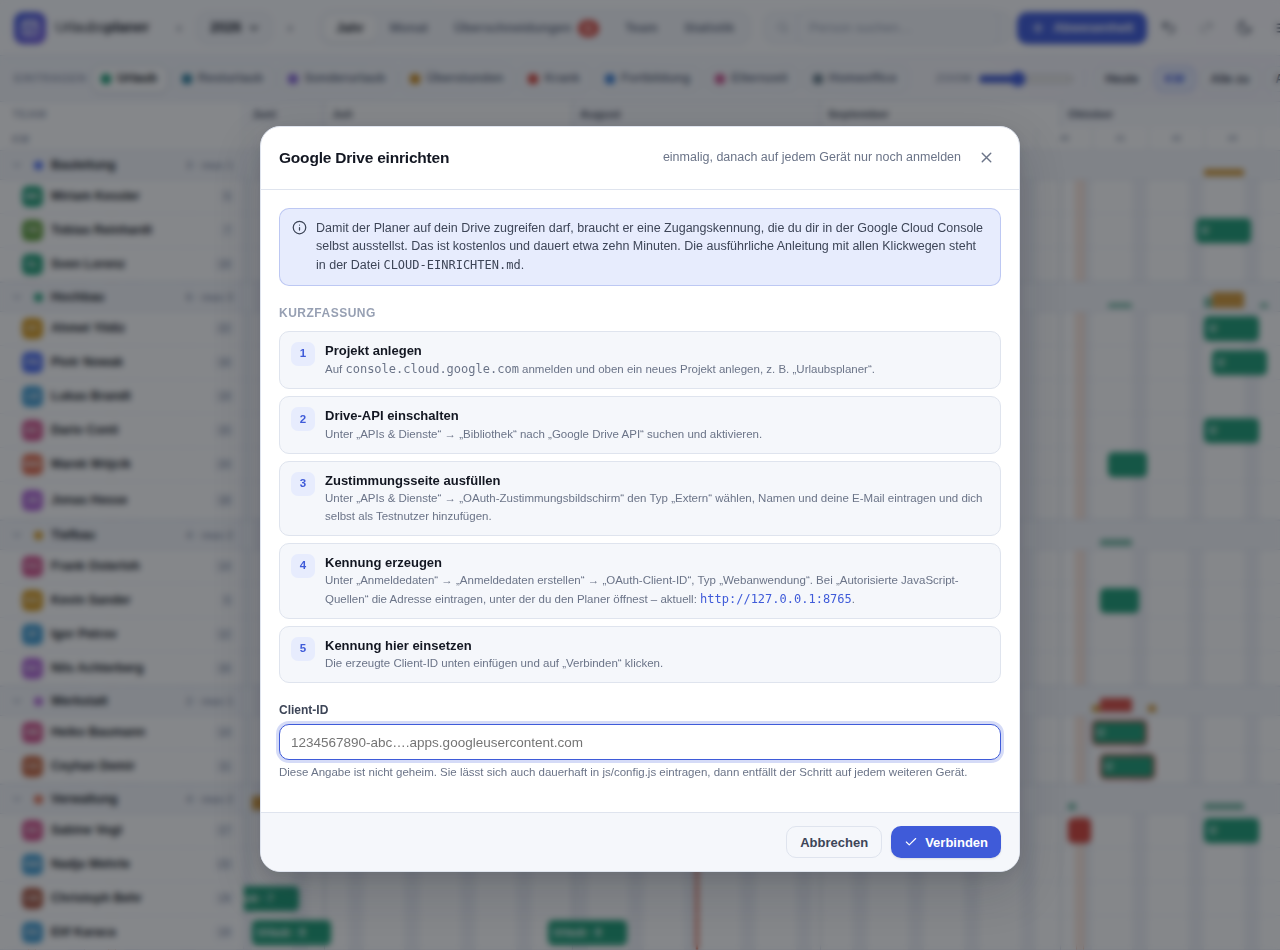
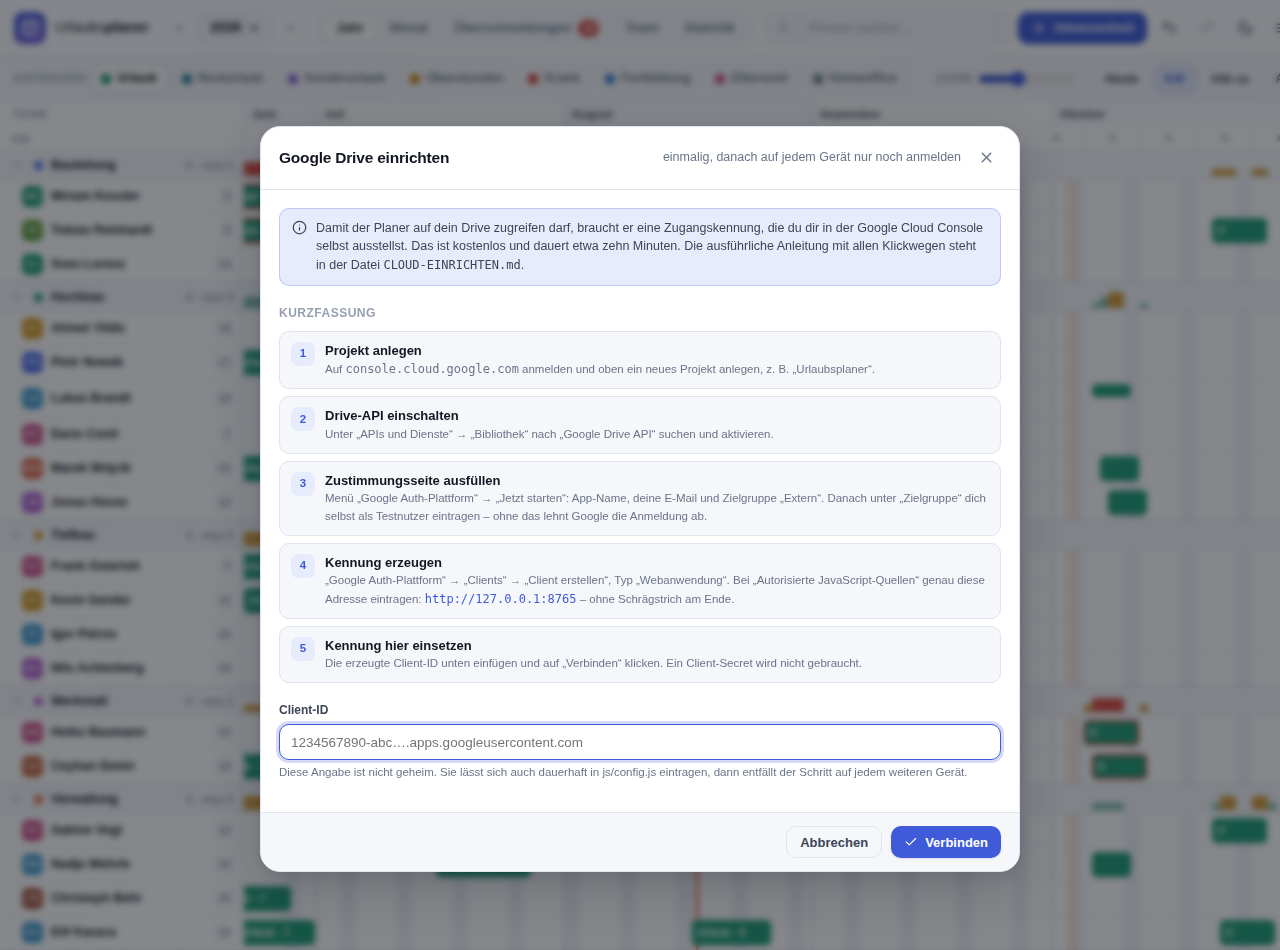
docs(urlaubsplaner): Google-Anleitung an die neue Konsole angepasst
Google hat die Cloud Console umgebaut: Der OAuth-Zustimmungsbildschirm liegt
jetzt unter „Google Auth-Plattform“ mit den Abschnitten Branding, Zielgruppe,
Datenzugriff und Clients. Die bisherige Anleitung nannte Menüpunkte, die es so
nicht mehr gibt.

- Klickweg in CLOUD-EINRICHTEN.md und im Einrichtungsdialog aktualisiert,
  englische Bezeichnungen in Klammern für Konsolen in anderer Sprache
- Testnutzer stehen jetzt unter „Zielgruppe“; der Hinweis, dass ohne diesen
  Schritt die Anmeldung abgelehnt wird, steht jetzt direkt dabei
- Veröffentlichen ebenfalls unter „Zielgruppe“ statt im alten Menü
- ergänzt: der alte Weg über „Anmeldedaten“ existiert weiterhin, und ein
  Client-Secret wird nicht gebraucht

Claude-Session: https://claude.ai/code/session_01ARkv8irn3BEgwyWn3P67vM

diff --git a/urlaubsplaner/js/app.js b/urlaubsplaner/js/app.js
@@ -203,17 +203,19 @@ UP.app = (function () {
             el('span', {}, 'Auf ', el('span.mono', {}, 'console.cloud.google.com'),
               ' anmelden und oben ein neues Projekt anlegen, z. B. „Urlaubsplaner“.')),
           step('2', 'Drive-API einschalten',
-            'Unter „APIs & Dienste“ → „Bibliothek“ nach „Google Drive API“ suchen und aktivieren.'),
+            'Unter „APIs und Dienste“ → „Bibliothek“ nach „Google Drive API“ suchen und aktivieren.'),
           step('3', 'Zustimmungsseite ausfüllen',
-            'Unter „APIs & Dienste“ → „OAuth-Zustimmungsbildschirm“ den Typ „Extern“ wählen, ' +
-            'Namen und deine E-Mail eintragen und dich selbst als Testnutzer hinzufügen.'),
+            'Menü „Google Auth-Plattform“ → „Jetzt starten“: App-Name, deine E-Mail und ' +
+            'Zielgruppe „Extern“. Danach unter „Zielgruppe“ dich selbst als Testnutzer eintragen – ' +
+            'ohne das lehnt Google die Anmeldung ab.'),
           step('4', 'Kennung erzeugen',
-            el('span', {}, 'Unter „Anmeldedaten“ → „Anmeldedaten erstellen“ → „OAuth-Client-ID“, ' +
-              'Typ „Webanwendung“. Bei „Autorisierte JavaScript-Quellen“ die Adresse eintragen, ' +
-              'unter der du den Planer öffnest – aktuell: ',
-              el('span.mono', { style: { color: 'var(--primary)' } }, location.origin), '.')),
+            el('span', {}, '„Google Auth-Plattform“ → „Clients“ → „Client erstellen“, Typ ' +
+              '„Webanwendung“. Bei „Autorisierte JavaScript-Quellen“ genau diese Adresse eintragen: ',
+              el('span.mono', { style: { color: 'var(--primary)' } }, location.origin),
+              ' – ohne Schrägstrich am Ende.')),
           step('5', 'Kennung hier einsetzen',
-            'Die erzeugte Client-ID unten einfügen und auf „Verbinden“ klicken.')),
+            'Die erzeugte Client-ID unten einfügen und auf „Verbinden“ klicken. Ein Client-Secret ' +
+            'wird nicht gebraucht.')),
 
         el('div.field', { style: { marginTop: '18px' } },
           el('label', {}, 'Client-ID'), idInput,

diff --git a/urlaubsplaner/CLOUD-EINRICHTEN.md b/urlaubsplaner/CLOUD-EINRICHTEN.md
@@ -21,46 +21,61 @@ Google verlangt, dass sich jede Anwendung ausweist, die auf ein Drive zugreift.
 Diesen Ausweis stellst du dir selbst aus. Er ist kostenlos und **nicht geheim** –
 er darf offen im Quelltext stehen.
 
+> Google hat die Konsole 2025 umgebaut: Was früher unter „APIs und Dienste →
+> OAuth-Zustimmungsbildschirm“ lag, heißt jetzt **Google Auth-Plattform**. Viele
+> Anleitungen im Netz beschreiben noch die alte Oberfläche. Die Schritte unten
+> gelten für die neue. Da die Konsole zweisprachig genutzt wird, stehen die
+> englischen Bezeichnungen in Klammern.
+
 ### 1. Projekt anlegen
 
 1. [console.cloud.google.com](https://console.cloud.google.com) öffnen und mit
    dem Google-Konto anmelden, in dessen Drive der Plan liegen soll.
-2. Oben in der Kopfzeile auf die Projektauswahl klicken → **Neues Projekt**.
+2. Oben in der Kopfzeile auf die Projektauswahl klicken → **Neues Projekt**
+   (*New Project*).
 3. Name: `Urlaubsplaner`. **Erstellen**.
-4. Warten, bis das Projekt angelegt ist, und oben darauf umschalten.
+4. Warten, bis das Projekt angelegt ist, und oben darauf umschalten. Alles
+   Folgende passiert in diesem Projekt – bei Fehlern lohnt der Blick nach oben,
+   ob noch das richtige ausgewählt ist.
 
 ### 2. Drive-API einschalten
 
-1. Im Menü links: **APIs und Dienste** → **Bibliothek**.
+1. Im Menü links: **APIs und Dienste** → **Bibliothek** (*Library*).
 2. Nach `Google Drive API` suchen und darauf klicken.
-3. **Aktivieren**.
+3. **Aktivieren** (*Enable*).
 
 ### 3. Zustimmungsbildschirm einrichten
 
 Das ist die Seite, die Google später anzeigt, wenn du dem Planer den Zugriff
 erlaubst.
 
-1. **APIs und Dienste** → **OAuth-Zustimmungsbildschirm**.
-2. Nutzertyp **Extern** → **Erstellen**.
-3. Ausfüllen:
-   - App-Name: `Urlaubsplaner`
-   - Nutzersupport-E-Mail: deine Adresse
-   - Kontakt-E-Mail des Entwicklers: dieselbe Adresse
-4. **Speichern und fortfahren**.
-5. Bei **Bereiche** nichts eintragen – **Speichern und fortfahren**.
-6. Bei **Testnutzer** auf **Add users** und deine eigene Google-Adresse
-   eintragen. Ebenso die Adressen aller Kolleginnen und Kollegen, die den Planer
-   nutzen sollen. **Speichern und fortfahren**.
+1. Im Menü links **Google Auth-Plattform** (*Google Auth Platform*) öffnen.
+   Falls du sie nicht findest: oben in der Suche `Google Auth` eingeben.
+2. Beim ersten Mal erscheint **Jetzt starten** (*Get started*) – ein Assistent
+   mit vier Abschnitten auf einer Seite:
+   - **App-Informationen**: App-Name `Urlaubsplaner`, Nutzersupport-E-Mail deine
+     Adresse
+   - **Zielgruppe** (*Audience*): **Extern** (*External*)
+   - **Kontaktdaten**: deine E-Mail-Adresse
+   - Nutzungsbedingungen bestätigen → **Erstellen**
+3. Danach links auf **Zielgruppe** (*Audience*). Unten bei **Testnutzer**
+   (*Test users*) auf **Nutzer hinzufügen** und deine eigene Google-Adresse
+   eintragen – ebenso die Adressen aller Kolleginnen und Kollegen, die den
+   Planer nutzen sollen. **Speichern**.
+
+   Ohne diesen Schritt lehnt Google die Anmeldung mit „Zugriff verweigert“ ab.
 
 ### 4. Kennung erzeugen
 
-1. **APIs und Dienste** → **Anmeldedaten**.
-2. **Anmeldedaten erstellen** → **OAuth-Client-ID**.
-3. Anwendungstyp: **Webanwendung**.
-4. Name: `Urlaubsplaner Browser`.
-5. Bei **Autorisierte JavaScript-Quellen** auf **URI hinzufügen** und die
-   Adresse eintragen, unter der du den Planer öffnest. **Ohne Schrägstrich am
-   Ende, ohne Pfad.** Beispiele:
+1. In der **Google Auth-Plattform** links auf **Clients**, dann
+   **Client erstellen** (*Create client*).
+   *Der alte Weg über* **APIs und Dienste → Anmeldedaten → Anmeldedaten
+   erstellen → OAuth-Client-ID** *führt zum selben Ziel und existiert weiterhin.*
+2. Anwendungstyp (*Application type*): **Webanwendung** (*Web application*).
+3. Name: `Urlaubsplaner Browser`. Der Name ist nur für dich.
+4. Bei **Autorisierte JavaScript-Quellen** (*Authorized JavaScript origins*) auf
+   **URI hinzufügen** und die Adresse eintragen, unter der du den Planer
+   öffnest. **Ohne Schrägstrich am Ende, ohne Pfad.** Beispiele:
 
    | Wie du den Planer öffnest | Was hier eingetragen wird |
    |---|---|
@@ -71,23 +86,26 @@ erlaubst.
    | über Cloudflare Pages / GitHub Pages | `https://dein-name.pages.dev` |
 
    Mehrere Einträge sind erlaubt – trage ruhig alle ein, die du benutzt.
-   **Autorisierte Weiterleitungs-URIs** bleiben leer.
-6. **Erstellen**. Es erscheint ein Fenster mit der **Client-ID**. Sie sieht so
+   **Autorisierte Weiterleitungs-URIs** (*Authorized redirect URIs*) bleiben
+   leer; der Planer braucht sie nicht.
+5. **Erstellen**. Es erscheint ein Fenster mit der **Client-ID**. Sie sieht so
    aus:
 
    ```
    123456789012-a1b2c3d4e5f6g7h8.apps.googleusercontent.com
    ```
 
-   Diese Zeichenfolge kopieren.
+   Diese Zeichenfolge kopieren. Ein danebenstehendes **Client-Secret** brauchst
+   du nicht – der Planer läuft im Browser und verwendet keines.
 
 ### 5. Veröffentlichen (empfohlen)
 
 Solange das Projekt auf **Testing** steht, läuft der Zugang nach sieben Tagen ab
 und jedes Gerät muss sich neu anmelden. Das lässt sich abstellen:
 
-1. **APIs und Dienste** → **OAuth-Zustimmungsbildschirm**.
-2. **App veröffentlichen** → bestätigen.
+1. **Google Auth-Plattform** → **Zielgruppe** (*Audience*).
+2. Bei **Veröffentlichungsstatus** auf **App veröffentlichen**
+   (*Publish app*) → bestätigen.
 
 Eine Prüfung durch Google ist dafür **nicht** nötig. Der Planer nutzt
 ausschließlich den Bereich `drive.file`, und der gilt bei Google als nicht
